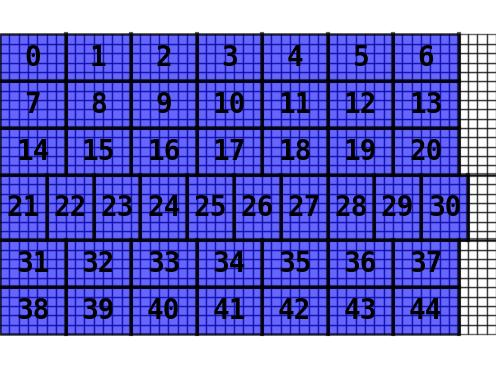
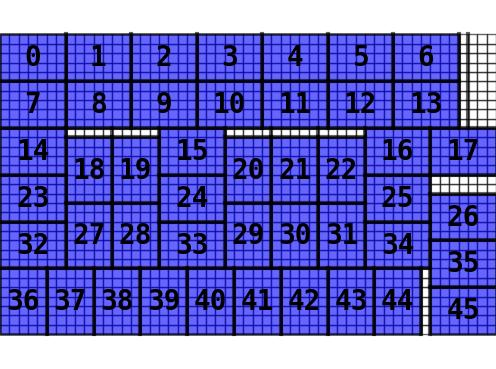
Bug fixing

Changed region(s): [[0.0, 0.0894, 1.0, 0.9241]]

diff --git a/model/guillotine.py b/model/guillotine.py
@@ -196,7 +196,7 @@ class Guillotine(AbstractModel):
             if not available_shapes:
                 return positions
             max_pieces = [plate.height // s[1] for s in available_shapes]
-            max_pieces_iter = [range(max_piece) for max_piece in max_pieces]
+            max_pieces_iter = [range(max_piece + 1) for max_piece in max_pieces]
             for pieces in itertools.product(*max_pieces_iter):
                 cut_height = sum(piece * s[1]
                                  for piece, s in zip(pieces, available_shapes))

diff --git a/model/test_guillotine.py b/model/test_guillotine.py
@@ -1,0 +1,14 @@
+from unittest import TestCase
+
+from model.guillotine import Guillotine
+
+
+class TestGuillotine(TestCase):
+    def test__plate_variable_enumeration(self):
+        grid = (12, 10)
+        shapes = [(5, 7), (7, 5)]
+        upper_bound = 46
+        model = Guillotine(grid, shapes, upper_bound)
+        blocks, cuts = model.solve()
+        print(blocks)
+        print(cuts)
